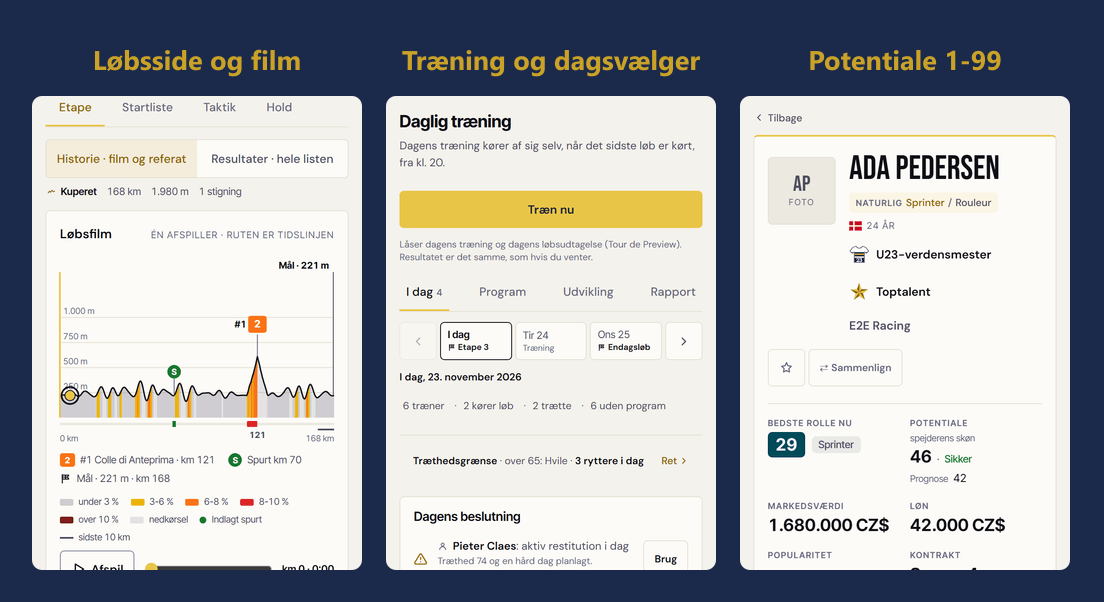
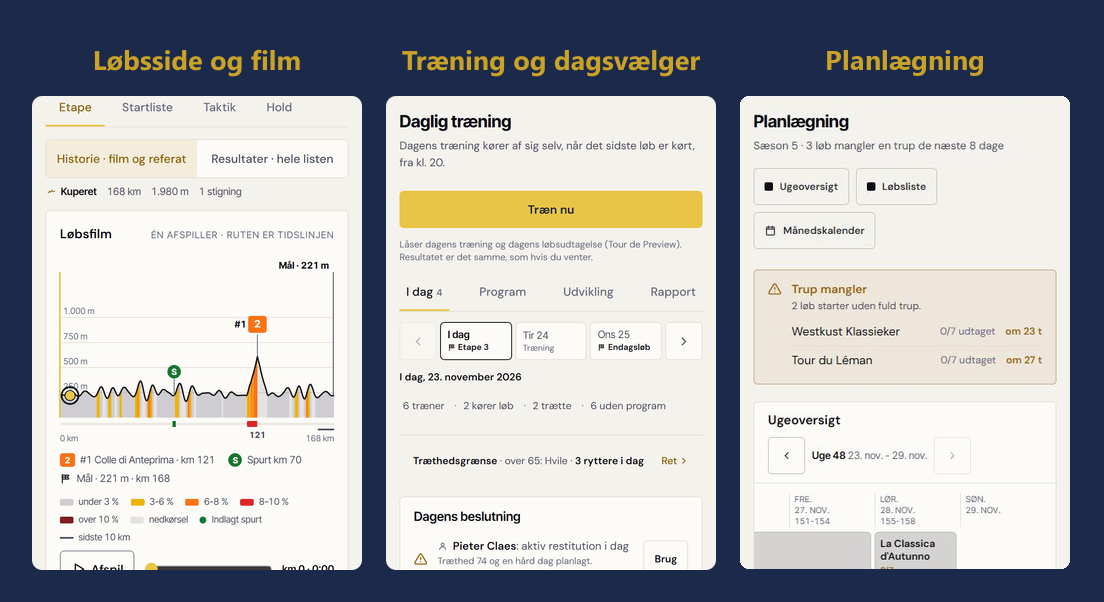
fix(email): mail 1 uden division, nyeste funktioner og planlaegning (Refs #8396)
Ejer 26/11: divisionen i S6 kendes foerst efter skiftet, tydelig overskrift
"De nyeste funktioner i spillet", nyt udviklingssystem uden lofter, den nye
planlaegningsside (proev-knap) og topbilledets rytterprofil skiftet til
planlaegningssiden (DA). Eyebrow uden versaler (#8725).

diff --git a/backend/lib/emailTemplates.js b/backend/lib/emailTemplates.js
@@ -232,6 +232,7 @@ function outlineButtonHtml(url, label) {
 // larger body and footer text, extra colour-lock CSS and a sender line.
 function wrapHtml({
   eyebrow,
+  eyebrowUppercase = true,
   bodyHtml,
   unsubscribeUrl,
   language,
@@ -270,7 +271,7 @@ function wrapHtml({
                 <table role="presentation" class="cz-band" bgcolor="${NAVY}" width="100%" cellpadding="0" cellspacing="0" style="background:${NAVY};background-color:${NAVY};">
                   <tr>
                     <td valign="middle" style="line-height:0;font-size:0;"><img src="${WORDMARK_URL}" alt="Cycling Zone" width="${WORDMARK_WIDTH}" height="${WORDMARK_HEIGHT}" style="display:block;border:0;outline:none;text-decoration:none;width:${WORDMARK_WIDTH}px;height:${WORDMARK_HEIGHT}px;font-family:-apple-system,BlinkMacSystemFont,'Segoe UI',Roboto,Helvetica,Arial,sans-serif;font-size:15px;font-weight:700;letter-spacing:1px;line-height:${WORDMARK_HEIGHT}px;color:#ffffff;text-transform:uppercase;"></td>
-                    <td align="right" valign="middle" class="cz-eyebrow" style="font-size:11px;font-weight:700;letter-spacing:1px;color:${GOLD};text-transform:uppercase;">${escapeHtml(eyebrow)}</td>
+                    <td align="right" valign="middle" class="cz-eyebrow" style="font-size:${eyebrowUppercase ? "11px" : "13px"};font-weight:700;letter-spacing:${eyebrowUppercase ? "1px" : "0"};color:${GOLD};${eyebrowUppercase ? "text-transform:uppercase;" : ""}">${escapeHtml(eyebrow)}</td>
                   </tr>
                 </table>
               </td>
@@ -827,10 +828,10 @@ export function s6AudienceForDaysAway(daysSinceLastSeen) {
 
 const S6_COPY = {
   en: {
-    eyebrow: "SEASON 6",
+    eyebrow: "Season 6",
     greeting: (team) => (team ? `Hi ${team},` : "Hi,"),
     heroAlt:
-      "Three screens from Cycling Zone: the new race page with the race film, the Training page with the day picker, and a rider profile showing potential on a scale from 1 to 99.",
+      "Three screens from Cycling Zone: the new race page with the race film, the Training page with the day picker, and the new planning page with the week overview.",
     roadmapIntro: "I'd like to know what you want me to build next.",
     roadmap: "Vote on the roadmap",
     awayNote: "You log in with the same account as before.",
@@ -839,18 +840,21 @@ const S6_COPY = {
     companyLine: "Cycling Zone is run by Dolmer Digital, CVR 46524861, Denmark.",
     beforeStart: {
       subjects: { a: "Season 6 starts Saturday", b: "Set your training before Season 6" },
-      preheader: "A new race page, a day picker in Training and potential from 1 to 99.",
+      preheader: "A new development system without caps, a new planning page, the race film and potential from 1 to 99.",
       heading: "Season 6 starts Saturday 28 November",
-      teamLine: (team, division) =>
-        division ? `${team || "Your team"} starts Season 6 in ${division}.` : `Here's what's new for ${team || "your team"}.`,
+      // #8396 ejer 26/11: the division for Season 6 is only known after the
+      // switch (promotion and relegation), so mail 1 names no division.
+      teamLine: null,
+      newsHeading: "The newest features in the game",
       openings: {
-        active: "Thanks for racing in Season 5. Before the new season starts, here are three things that are new since it began.",
-        dormant: "It's been a few weeks since you were last in. Here are three things you haven't seen yet, all ready before the new season starts.",
-        away: "It's been a while since you played, and the game has changed a lot. A new season is a good time to come back. Here are three things you haven't seen yet.",
+        active: "Thanks for racing in Season 5. Before the new season starts, here is what's new since it began.",
+        dormant: "It's been a few weeks since you were last in. Here is what's new, all ready before the new season starts.",
+        away: "It's been a while since you played, and the game has changed a lot. A new season is a good time to come back. Here is what's new.",
       },
       news: [
         ["The race page.", "Watch the race film and read the results for a ridden stage in one place."],
-        ["Training.", "A new page with programs and groups, and a day picker on the Today tab that shows the coming days with races and training."],
+        ["Training and development.", "A completely new development system, and the caps on abilities are gone. The Training page has programs, groups and a day picker on the Today tab that shows the coming days with races and training."],
+        ["Planning.", "Try the new planning page with the week overview, the race list and a month calendar in one place."],
         ["Potential.", "Every rider has one potential from 1 to 99, with how sure the scout is. It's the same number everywhere in the game."],
       ],
       cta: "Set your training for Season 6",
@@ -882,10 +886,10 @@ const S6_COPY = {
     },
   },
   da: {
-    eyebrow: "SÆSON 6",
+    eyebrow: "Sæson 6",
     greeting: (team) => (team ? `Hej ${team},` : "Hej,"),
     heroAlt:
-      "Tre skærmbilleder fra Cycling Zone: den nye løbsside med løbsfilmen, træningssiden med dagsvælgeren og en rytterprofil, der viser potentiale på en skala fra 1 til 99.",
+      "Tre skærmbilleder fra Cycling Zone: den nye løbsside med løbsfilmen, træningssiden med dagsvælgeren og den nye planlægningsside med ugeoversigten.",
     roadmapIntro: "Jeg vil gerne høre, hvad du synes, jeg skal bygge næste gang.",
     roadmap: "Stem på roadmappet",
     awayNote: "Du logger ind med den samme konto som før.",
@@ -894,18 +898,21 @@ const S6_COPY = {
     companyLine: "Cycling Zone drives af Dolmer Digital, CVR 46524861, Danmark.",
     beforeStart: {
       subjects: { a: "Sæson 6 starter lørdag", b: "Sæt træningen før sæson 6" },
-      preheader: "Ny løbsside, dagsvælger i Træning og potentiale fra 1 til 99.",
+      preheader: "Nyt udviklingssystem uden lofter, ny planlægningsside, løbsfilmen og potentiale fra 1 til 99.",
       heading: "Sæson 6 starter lørdag den 28. november",
-      teamLine: (team, division) =>
-        division ? `${team || "Dit hold"} starter sæson 6 i ${division}.` : `Her er det nye for ${team || "dit hold"}.`,
+      // #8396 ejer 26/11: divisionen i sæson 6 kendes først efter skiftet
+      // (op- og nedrykning), så mail 1 nævner ingen division.
+      teamLine: null,
+      newsHeading: "De nyeste funktioner i spillet",
       openings: {
-        active: "Tak fordi du kørte med i sæson 5. Inden den nye sæson starter, er her tre ting, der er nye, siden den begyndte.",
-        dormant: "Det er et par uger siden, du sidst var inde. Her er tre ting, du ikke har set endnu, og de er klar, før den nye sæson starter.",
-        away: "Det er længe siden, du har spillet, og spillet har ændret sig meget. En ny sæson er et godt tidspunkt at komme tilbage. Her er tre ting, du ikke har set endnu.",
+        active: "Tak fordi du kørte med i sæson 5. Inden den nye sæson starter, kan du se, hvad der er nyt, siden den begyndte.",
+        dormant: "Det er et par uger siden, du sidst var inde. Her er det nye, og det er klar, før den nye sæson starter.",
+        away: "Det er længe siden, du har spillet, og spillet har ændret sig meget. En ny sæson er et godt tidspunkt at komme tilbage. Her er det nye.",
       },
       news: [
         ["Løbssiden.", "Se løbsfilmen og resultaterne for en kørt etape samme sted."],
-        ["Træning.", "En ny side med programmer og grupper og en dagsvælger under I dag, der viser de kommende dage med løb og træning."],
+        ["Træning og udvikling.", "Et helt nyt udviklingssystem, og lofterne på evnerne er væk. Træningssiden har programmer, grupper og en dagsvælger under I dag, der viser de kommende dage med løb og træning."],
+        ["Planlægning.", "Prøv den nye planlægningsside med ugeoversigt, løbsliste og månedskalender samme sted."],
         ["Potentiale.", "Hver rytter har ét potentiale fra 1 til 99 og hvor sikker spejderen er. Det er det samme tal overalt i spillet."],
       ],
       cta: "Sæt træningen for sæson 6",
@@ -1014,7 +1021,7 @@ export function buildS6SeasonEmail({
   const ctaUrl = s6CampaignUrl(S6_CTA_PATH[edition], edition, audience, subjectVariant);
   const roadmapUrl = s6CampaignUrl("/roadmap?tab=vote", edition, audience, subjectVariant);
   const greeting = copy.greeting(team);
-  const teamLine = version.teamLine(team, division);
+  const teamLine = version.teamLine ? version.teamLine(team, division) : null;
   const opening = version.openings[audience];
 
   const listHtml = started
@@ -1032,8 +1039,9 @@ export function buildS6SeasonEmail({
     ${s6HeroHtml(lang, copy.heroAlt)}
     <h1 class="cz-text" style="margin:0 0 20px;font-size:24px;line-height:1.25;font-weight:700;color:${TEXT};">${escapeHtml(version.heading)}</h1>
     <p style="margin:0 0 16px;">${escapeHtml(greeting)}</p>
-    <p style="margin:0 0 16px;"><strong>${escapeHtml(teamLine)}</strong></p>
-    <p style="margin:0 0 16px;">${escapeHtml(opening)}</p>
+    ${teamLine ? `<p style="margin:0 0 16px;"><strong>${escapeHtml(teamLine)}</strong></p>` : ""}
+    <p style="margin:0 0 16px;">${escapeHtml(opening)}</p>${version.newsHeading ? `
+    <h2 class="cz-text" style="margin:0 0 12px;font-size:18px;line-height:1.3;font-weight:700;color:${TEXT};">${escapeHtml(version.newsHeading)}</h2>` : ""}
     ${listHtml}
     <p style="margin:0 0 24px;">${s6ButtonHtml(ctaUrl, version.cta)}</p>${audience === "away" ? `
     <p style="margin:0 0 16px;">${escapeHtml(copy.awayNote)}</p>` : ""}
@@ -1043,8 +1051,9 @@ export function buildS6SeasonEmail({
   const bodyText = [
     version.heading,
     greeting,
-    teamLine,
+    ...(teamLine ? [teamLine] : []),
     opening,
+    ...(version.newsHeading ? [version.newsHeading] : []),
     listText.join("\n"),
     `${version.cta}: ${ctaUrl}`,
     ...(audience === "away" ? [copy.awayNote] : []),
@@ -1068,6 +1077,7 @@ export function buildS6SeasonEmail({
     html: wrapHtml({
       ...footer,
       eyebrow: copy.eyebrow,
+      eyebrowUppercase: false, // #8725 ejer 26/11: ingen små versaler
       preheader: version.preheader,
       bodyHtml,
       title: subject,

diff --git a/backend/lib/emailTemplates.test.js b/backend/lib/emailTemplates.test.js
@@ -908,8 +908,17 @@ for (const edition of ["before-start", "started"]) {
 
           // Personal fields: team name in the greeting and the team line with the division.
           assert.match(mail.html, /(Hi|Hej) Hold A,/);
-          assert.match(mail.html, /Hold A (starts|starter|rides|kører) (Season|sæson) 6 i?n? ?Division 2\./);
-          assert.match(mail.text, /Division 2/);
+          if (edition === "before-start") {
+            // #8396 ejer 26/11: the S6 division is unknown before the switch, so mail 1 names none.
+            assert.ok(!mail.html.includes("Division 2"), "before-start names no division");
+            assert.ok(!mail.text.includes("Division 2"), "before-start text names no division");
+            assert.match(mail.html, /<h2[^>]*>(The newest features in the game|De nyeste funktioner i spillet)<\/h2>/);
+            assert.match(mail.text, /(udviklingssystem|development system)/);
+            assert.match(mail.text, /(Planlægning|Planning)\./);
+          } else {
+            assert.match(mail.html, /Hold A (starts|starter|rides|kører) (Season|sæson) 6 i?n? ?Division 2\./);
+            assert.match(mail.text, /Division 2/);
+          }
 
           // One primary button, 16px label, tall enough to tap (44px or more).
           const buttons = mail.html.match(/<a class="cz-btn"[^>]*>/g) ?? [];
@@ -918,8 +927,8 @@ for (const edition of ["before-start", "started"]) {
           assert.match(buttons[0], /font-size:16px;line-height:20px/);
           assert.match(mail.html, /class="cz-body"[^>]*font-size:16px;/);
 
-          // List: three news items before the start, three steps once it is underway.
-          assert.equal((mail.html.match(/<li\b/g) ?? []).length, 3);
+          // List: four news items before the start (#8396 ejer 26/11), three steps once it is underway.
+          assert.equal((mail.html.match(/<li\b/g) ?? []).length, isStart ? 3 : 4);
           assert.match(mail.html, isStart ? /<ol\b/ : /<ul\b/);
 
           // Links: the deep-linked CTA, the roadmap vote and the unsubscribe, all with UTM.
@@ -971,7 +980,7 @@ test("S6 drafts give every audience its own opening per edition and language", a
   for (const edition of S6_EDITIONS) {
     for (const language of ["en", "da"]) {
       const texts = S6_AUDIENCES.map(
-        (audience) => buildS6SeasonEmail({ edition, audience, language, unsubscribeUrl: S6_UNSUB }).text.split("\n\n")[3]
+        (audience) => buildS6SeasonEmail({ edition, audience, language, unsubscribeUrl: S6_UNSUB }).text.split("\n\n")[edition === "before-start" ? 2 : 3]
       );
       assert.equal(new Set(texts).size, S6_AUDIENCES.length, `${edition}/${language}`);
     }
@@ -981,13 +990,14 @@ test("S6 drafts give every audience its own opening per edition and language", a
 test("S6 drafts fall back to neutral wording without a team or division", async () => {
   const { buildS6SeasonEmail } = await import("./emailTemplates.js");
   const cases = [
-    [{ language: "en" }, /Hi,/, /Here&#39;s what&#39;s new for your team\./],
-    [{ language: "da" }, /Hej,/, /Her er det nye for dit hold\./],
-    [{ language: "en", teamName: "Hold B" }, /Hi Hold B,/, /Here&#39;s what&#39;s new for Hold B\./],
-    [{ language: "da", teamName: "  ", divisionName: "Division 3" }, /Hej,/, /Dit hold starter sæson 6 i Division 3\./],
+    // #8396 ejer 26/11: only the started edition has a team line; mail 1 (before-start) has none.
+    [{ language: "en" }, /Hi,/, /Here&#39;s how to get your team racing\./],
+    [{ language: "da" }, /Hej,/, /Sådan kommer dit hold til start\./],
+    [{ language: "en", teamName: "Hold B" }, /Hi Hold B,/, /Here&#39;s how to get Hold B racing\./],
+    [{ language: "da", teamName: "  ", divisionName: "Division 3" }, /Hej,/, /Dit hold kører sæson 6 i Division 3\./],
   ];
   for (const [input, greeting, teamLine] of cases) {
-    const mail = buildS6SeasonEmail({ edition: "before-start", audience: "active", unsubscribeUrl: S6_UNSUB, ...input });
+    const mail = buildS6SeasonEmail({ edition: "started", audience: "active", unsubscribeUrl: S6_UNSUB, ...input });
     assert.match(mail.html, greeting);
     assert.match(mail.html, teamLine);
     assert.doesNotMatch(mail.html + mail.text, /undefined|null/);
